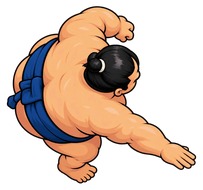
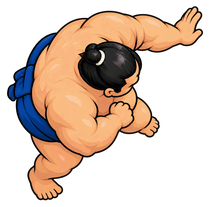
art(action): refresh counter pose candidate
Replace the provisional Counter / hiki-sabaki Visual-Gate source with the
User's lateral-sweep candidate (1265x1244, pixel hash 5429d02f...) and
renormalize it with the established landmark registration (front 178.8,
root (863, 553), body core (853, 111)-(868, 846)); regenerate
counter-gate/red.png and blue.png (210x207) and their metadata. Only the
Counter gate's max_missed_px moves 60 -> 80 for this image's semi-
transparent outline fringe; the recolor rule, idle / Tsuppari art and
Counter gameplay are unchanged.

diff --git a/src/game/presentation/counterGateArt.ts b/src/game/presentation/counterGateArt.ts
@@ -16,18 +16,18 @@ export const COUNTER_GATE_ART: Readonly<Record<ProductWrestlerArtId, ProductWres
     id: 'red',
     textureKey: 'counter-gate-red',
     assetPath: 'assets/action/wrestler/counter-gate/red.png',
-    width: 203,
-    height: 190,
-    pivot: { x: 79, y: 96 },
+    width: 210,
+    height: 207,
+    pivot: { x: 74, y: 115 },
     bodyCoreDiameterPx: COUNTER_GATE_BODY_CORE_DIAMETER_PX,
   },
   blue: {
     id: 'blue',
     textureKey: 'counter-gate-blue',
     assetPath: 'assets/action/wrestler/counter-gate/blue.png',
-    width: 203,
-    height: 190,
-    pivot: { x: 79, y: 94 }, // red pivot (79, 96) reflected: y -> 190 - 96
+    width: 210,
+    height: 207,
+    pivot: { x: 74, y: 92 }, // red pivot (74, 115) reflected: y -> 207 - 115
     bodyCoreDiameterPx: COUNTER_GATE_BODY_CORE_DIAMETER_PX,
   },
 }

diff --git a/src/game/presentation/counterGateArt.test.ts b/src/game/presentation/counterGateArt.test.ts
@@ -47,7 +47,7 @@ describe('Counter art Visual Gate (ACTION-08A)', () => {
 
   it('explicit pivot / body core; blue = red reflected across the local X axis', () => {
     const { red, blue } = COUNTER_GATE_ART
-    expect([red.width, red.height, red.pivot]).toEqual([203, 190, { x: 79, y: 96 }])
+    expect([red.width, red.height, red.pivot]).toEqual([210, 207, { x: 74, y: 115 }])
     expect([blue.width, blue.height, blue.pivot]).toEqual([red.width, red.height, { x: red.pivot.x, y: red.height - red.pivot.y }])
     for (const art of allCounterGateArts()) {
       const origin = productWrestlerOrigin(art)

diff --git a/tools/wrestler_art/tests/test_export_counter_gate.py b/tools/wrestler_art/tests/test_export_counter_gate.py
@@ -36,7 +36,7 @@ from test_preview_dual_rigid_wrestlers import front_point, sprite_recipe  # noqa
 
 TS_METADATA = aw.REPO_ROOT / "src" / "game" / "presentation" / "counterGateArt.ts"
 RECIPE = ec.load_recipe(ec.DEFAULT_RECIPE)
[2 lines of base64/hex data omitted]
 FRONT_DEG = 165.0
 
 
@@ -86,6 +86,12 @@ class RecipeTests(unittest.TestCase):
     def test_accepted_source_identity(self) -> None:
         self.assertEqual(RECIPE["master"]["pixel_sha256"], ACCEPTED_SOURCE_PIXELS)
         self.assertEqual(RECIPE["master"]["file"], "candidate_red_counter.png")
+        self.assertEqual(RECIPE["master"]["size"], [1265, 1244])
+
+    def test_counter_only_missed_allowance(self) -> None:
+        # ACTION-08A1: image-specific 60 -> 80 for this gate only; idle / Tsuppari limits stay 60
+        self.assertEqual(RECIPE["mask_limits"]["max_missed_px"], 80)
+        self.assertEqual(et.load_recipe(et.DEFAULT_RECIPE)["mask_limits"]["max_missed_px"], 60)
 
     def test_recolor_rule_is_owned_by_the_idle_runtime_recipe(self) -> None:
         self.assertEqual(RECIPE["recolor"], ex.load_recipe(ex.DEFAULT_RECIPE)["derived"]["recolor"])
@@ -259,7 +265,7 @@ class CommittedGateTests(unittest.TestCase):
         source = aw.mirror_part(red)
         rule = RECIPE["recolor"]
         self.assertEqual(et.mask_report(source.image, im.mawashi_mask(source.image, rule), rule),
-                         {"mask_px": 2085, "missed_band_px": 14, "fringe_px": 74})
+                         {"mask_px": 1724, "missed_band_px": 70, "fringe_px": 75})
 
     def test_accepted_idle_and_tsuppari_textures_unchanged(self) -> None:
         for key, expected in (("red", ACCEPTED_RED_PIXELS), ("blue", ACCEPTED_BLUE_PIXELS)):

diff --git a/docs/agent_handoff/CURRENT_COMPLETION_REPORT.md b/docs/agent_handoff/CURRENT_COMPLETION_REPORT.md
@@ -1,180 +1,159 @@
-Task-ID: ACTION-08A-COUNTER-ART-VISUAL-GATE
+Task-ID: ACTION-08A1-COUNTER-ART-CANDIDATE-REFRESH
 Result: PASS WITH KNOWN UNTESTED ITEMS
 Branch: develop
-Source-Baseline: 85bdc89205189e056af56506084aacaacdca6d5c
-Agent-Start-Head: a015e558235a48593507aad16741a2d6d3e67246
+Source-Baseline: bc95f7117dbadf57cceee9d2a0b2a67e6fd10b56
+Agent-Start-Head: 395136266c490523605b7f1d12cea6eb881fb475
 Implementation-Commit: THIS_COMMIT
 Push-Target: origin/develop
 Push-Verification: RESOLVE_FROM_GITHUB_AFTER_THIS_COMMIT
 
 # Result
 
-PASS WITH KNOWN UNTESTED ITEMS（Technical PASS、Browser Smoke 20 / 20 PASS。Counterの画像が今の候補として十分かは、User Visual Gateで判断する）。
+PASS WITH KNOWN UNTESTED ITEMS（Technical PASS、Browser Smoke 20 / 20 PASS。新しいCounter / 引き・捌きの候補が十分かは、User Visual Gateで判断する）。
 
-- Userが用意した引き・捌き（ArrowDown / Counter）の画像を、**暫定のVisual Gate** としてruntimeに組み込んだ
-  - red: 描いた1枚を正規化したもの
-  - blue: そのredをofflineで反射し、まわしを塗り替えたもの
-- 表示するのは、既存の `WrestlerVisualState.pose === 'counter'` のあいだだけ。独自のtimerは持たない
-- Counterのgameplay、idle、Product Tsuppari artは変えていない
-- Productの恒久の契約（`WRESTLER_PRODUCT_ART_SPEC.md` のAccepted）には入れていない
+- 暫定のCounter Visual-Gateの画像を、Userの新しい候補（腕を横へ払う構図）に差し替えた
+- 07Cから続くlandmarkの方法で正規化し直し、`counter-gate/red.png` / `blue.png` を作り直した
+- Taskが認めた範囲で、Counter gateのrecipeの `max_missed_px` だけを60 → 80にした
+- 次のものは変えていない:
+  - 塗り替えの規則、idle / Tsuppariのmaskの上限
+  - presentationの経路（`pose === 'counter'` → `selectWrestlerPoseArt`）
+  - gameplay、idle / Product Tsuppari art
 
 # Preflight
 
-- working tree clean、branch `develop`、fetch後 `HEAD...origin/develop` = `0 2`
-- Remote CURRENT_TASK: Task-IDは一致、Status READY、Target-Branch develop、Source-Baseline `85bdc89`（`origin/develop` のancestor）、Handoff-Mode GITHUB
-- `85bdc89..origin/develop` で変わったのは `docs/agent_handoff/CURRENT_TASK.md` だけ → `merge --ff-only` → `a015e55`
-- source: `tools/wrestler_art/input.local/candidate_red_counter.png`（commitしない）
+- working tree clean、branch `develop`、fetch後 `HEAD...origin/develop` = `0 1`
+- Remote CURRENT_TASK: Task-IDは一致、Status READY、Target-Branch develop、Source-Baseline `bc95f71`（`origin/develop` のancestor）、Handoff-Mode GITHUB
+- `bc95f71..origin/develop` で変わったのは `docs/agent_handoff/CURRENT_TASK.md` だけ → `merge --ff-only` → `3951362`
+- この開始指示の前に、2回STOPしている。どちらもrepositoryには何も書いていない
+  1. 1回目: 当時の指定画像（`11d5157b…`）は、まわしが2つに分かれていて、mask（missed 175）が上限を超えたため、BLOCKEDとして報告した
+  2. 2回目: Userが画像を差し替えたが、当時のTaskの指定hashと合わなかったため止めた。そのとき、scratchpadで事前診断だけをした
+  - 今回のTaskは、その差し替えた画像と、事前診断で分かったmaskの上限を反映している
+
+## Source（`tools/wrestler_art/input.local/candidate_red_counter.png`、commitしない）
 
 | 項目 | 期待値 | 実測 |
 |---|---|---|
-| size / mode | 1254×1254 RGBA | 1254×1254 RGBA |
[2 lines of base64/hex data omitted]
+| size / mode | 1265×1244 RGBA | 1265×1244 RGBA |
[2 lines of base64/hex data omitted]
+| 08Aの旧画像 `eb0f2e60…e040` と違う | 違う | 違う |
+| 08A1で不採用の画像 `11d5157b…9e85` と違う | 違う | 違う |
 
-# Normalization（`counter_gate_recipe.json`）
+# Normalization（新しい候補。旧値は流用していない）
 
-測定は、Product Tsuppariと同じlandmarkの合わせ方（`measure_tsuppari_pose.measure_landmarks` / `normalization`）で、この候補に1回だけ実行した。
+- 方法は08Aと同じ: `measure_tsuppari_pose.measure_landmarks` / `normalization` を、この候補に1回実行した
+- 髪とまわしの重心を、1/2 BOXのscaleで測り、受理済みのidle red masterに合わせる
+- 正規化のalgorithmは変えていない
 
-- 髪の塊とまわしの重心を、1/2 BOXのscaleで測り、受理済みのidle red masterに合わせる
-- 測定の仕組みを汎用化するrefactorはしていない
-- 記録値は丸めている（front 0.1°、各点1 px）
+| 項目 | 08A（旧） | 08A1（新） |
+|---|---|---|
+| source size | 1254×1254 | **1265×1244** |
+| hair centroid / px | (543.7, 494.4) / 63152 | (659.3, 405.8) / 73976 |
+| mawashi centroid / px | (992.6, 597.3) / 70984 | (1118.3, 582.2) / 57052 |
+| 回転差 / scale s | +10.004° / 1.1712 | **+18.115° / 1.163** |
+| `source_front_deg` | 170.7 | **178.8**（実測178.815） |
+| `root_source_px` | (750, 608) | **(863, 553)**（実測862.66, 552.68） |
+| `body_core_source_px` | (678, 170)–(798, 899) | **(853, 111)–(868, 846)**（front軸との直交のずれは約0.03°） |
 
-| 項目 | 値 |
-|---|---|
-| hair centroid / px | (543.7, 494.4) / 63152 |
-| mawashi centroid / px | (992.6, 597.3) / 70984 |
-| 回転差 / scale s | +10.004° / 1.1712 |
-| `source_front_deg` | **170.7** |
-| `root_source_px` | **(750, 608)** |
-| `body_core_source_px` | **(678, 170)–(798, 899)**（front軸との直交のずれは0.05°） |
+- 頭が体より大きく描かれているため、2つの面積比が食い違う（√比で、髪1.317、まわし1.009）
+  - 既存の方法どおり、sは2つの平均にした（`measurement_evidence.note` に記録した）
+  - 体がidleよりやや小さく見える可能性があり、User Visual Gateで確認してほしい点になる
+- clipはない
+- idleの輪郭との重ね合わせ（scratchpadの `counter_alignment.png`）で確かめた:
+  - 頭と胴体はidleとほぼ同じ位置に重なる
+  - 腕は前方へまっすぐではなく、斜め横へ払う向き
+  - 反対の腕は胴体へ引き寄せている
+- 手で調整したoffsetは無い
 
-- この画像の胴体は、idleより約10°回り、約17%大きく描かれている
-  - 髪とまわしの面積比のずれは、Tsuppariのposeより大きい（√比で、髪1.217、まわし1.126）
-  - そのため、sは2つの平均にした（既存の方法のまま。evidenceのnoteに記録した）
-- それでも、正規化はclipせずに通った
-- 向きと大きさが合っていることは、idleの輪郭との重ね合わせで確認した（下記）
-- 適当なoffsetを手で調整したりはしていない
+# Runtime（Visual-Gate asset。pathは変えていない）
 
-# Runtime（Visual-Gate asset）
+| path | size | pivot | body core | 旧pixel SHA-256（08A） | 新pixel SHA-256 | 新file SHA-256 |
+|---|---|---|---|---|---|---|
[2 lines of base64/hex data omitted]
 
-| path | size | pivot | body core | pixel SHA-256 | file SHA-256 |
-|---|---|---|---|---|---|
[2 lines of base64/hex data omitted]
-
-- runtimeは通常のPNGだけを使う（runtimeでの反転や塗り替えはしない）
-- 恒久の `counter/` は作っていない
+- runtimeのtextureは、この2枚だけ
+- `src/game/presentation/counterGateArt.ts` のsize / pivotを更新した
 
 # Recolor / Mask
 
-ruleの持ち主は `runtime_wrestler_recipe.json` で、tsuppari / counterのrecipeには複製していない。
+- 塗り替えのalgorithmと共通の規則（`runtime_wrestler_recipe.json`）は変えていない
+- idle / Tsuppariのmaskの上限（60）も変えていない（testで確かめている）
+- **Counter gateだけの許容**: `counter_gate_recipe.json` の `mask_limits.max_missed_px` を60 → 80にした（Taskが明記した許容。image-specificで、Product全体の基準ではない）
+- 80を超えれば、引き続きfail closedで止まる
 
-| source | mask px | missed（上限60） | fringe（上限120） |
-|---|---|---|---|
-| 正規化したred Counterを反射（→ blue） | 2085 | 14 | 74 |
+| 最終の値（実際に正規化してexportした後） | 値 |
+|---|---|
+| mask px | 1724 |
+| missed band px | **70**（上限80）。そのうち69 pxはalpha < 128の半透明な輪郭の縁 |
+| fringe px | 75（上限120） |
 
-- 目視（maskのsheet）で、maskはまわしの帯だけにかかっていた。skin、hair、腕への混入はない
-- 次のことはtestで確かめた:
-  - alphaが変わらない
-  - mask外の画素が変わらない
-  - mask内は実際に色が変わる
-- 確認用のsheet（scratchpad、commitしない）:
-  - `counter_alignment.png`: 体と頭はidleの輪郭とほぼ重なる。腕は前方へ伸びる
-  - `counter_mask.png`
-  - `counter_rotations.png`
+- 事前診断（scratchpad）の値と完全に一致した
+- まわしは、つながった1つの帯になっている（08A1で最初に不採用だった画像のような、前側の別の塊は無い）
+- `counter_mask.png` を目視した。skin、hair、腕への混入は無く、blueに目立つ赤の残りも無い
 
 # Presentation Integration
 
-- `src/game/presentation/counterGateArt.ts`（新規。Phaser非依存、Simulation非依存）
-  - `COUNTER_GATE_ART.red` / `.blue`: texture key（`counter-gate-red` / `-blue`）、path、寸法、pivot、body-coreの直径
-  - `allCounterGateArts()`: preload用
-  - `selectWrestlerPoseArt(idle, state)`
-    - `state.pose === 'counter'` → Counterの候補
-    - それ以外 → 既存のProductの選択 `selectWrestlerArt`（Tsuppariのpose、またはidle）にそのまま渡す
-- `src/game/scenes/WrestlerView.ts`: preloadにCounterの2枚を追加し、選択を `selectWrestlerPoseArt` にした。pivot / scale / 位置 / 回転の規則は変えていない
-- 経路: `BoutSimulation / Snapshot → resolveWrestlerVisualState（pose = counter）→ selectWrestlerPoseArt → WrestlerView`
-- Simulationに状態は足していない。Phaserでキー入力から推測もしない
+08Aの経路のままで、変えていない:
 
-# Implementation Evidence
-
-| Design Requirement | Implemented As | Verified By |
-|---|---|---|
-| sourceのpath / hash | `counter_gate_recipe.json` の `master`（file、pixel SHA-256）。`aw.load_source` が確かめ、合わなければ止まる | `test_accepted_source_identity`、`test_missing_or_changed_source_fails_closed`、実測hashの一致 |
-| 正規化 / pivot / body-core | idleと同じ03Aの正規化（`et.normalize`）。front 170.7、root、body-coreを明示し、2R・/4 | `test_red_is_the_normalized_pose_and_blue_its_reflected_recolor`（body core 2R）、`test_committed_textures_match_a_red_only_fresh_export`、alignmentのsheet |
-| red → blueの導出 | local Y反射 + idle recipeのまわしの塗り替え（1か所が持つ） | `test_only_one_local_y_reflection`、`test_recolor_rule_is_owned_by_the_idle_runtime_recipe`、alpha / mask外のtest、`test_real_mask_covers_the_mawashi` |
-| 暫定のruntime path | `public/assets/action/wrestler/counter-gate/red.png` / `blue.png`（ちょうど2枚） | `test_exactly_two_files_from_the_one_red_pose`、TSのtest、smokeのtexture読み込み |
-| metadataとexportの一致 | `counterGateArt.ts` | `test_typescript_metadata_matches_the_export`、TSの `explicit pivot / body core` |
-| 決定的 / `--check` | atomicな書き込み。`--check` は何も書かない。古い・無いassetを検出する | `test_deterministic_export`、`test_check_writes_nothing_and_detects_stale_or_missing`、実際の再実行でbyteが同じ |
-| Counter状態の表示 | `selectWrestlerPoseArt`: pose = counterのときだけ | TSのtest（counterの全tickで表示、window − 1 tickのあいだ保持、終わればidle）、smoke（blue / redの全counter frame） |
-| idle / Tsuppariを保つ | idle、Tsuppariの4枚には触れない | `test_accepted_idle_and_tsuppari_textures_unchanged`、`export_runtime_wrestlers.py --check`、`export_tsuppari.py --check`、TSのTsuppari選択test、smoke |
-| gameplayは不変 | `src/game/sumo`、`src/game/input` は差分0行 | `git diff 85bdc89 -- src/game/sumo src/game/input` = 0行、Counter / Tsuppari / Pushのtestは全PASS |
+- 経路: `BoutSimulation / Snapshot → WrestlerVisualState.pose === 'counter' → selectWrestlerPoseArt() → counter-gate texture → WrestlerView`
+- 状態もtimerも足していない。キー入力から推測もしない
+- 変えたのは、metadataの数値（size / pivot）だけ
 
 # Verification
 
 | 項目 | 結果 |
 |---|---|
-| `test_export_counter_gate.py`（focused） | 15 tests OK |
-| wrestler-art全suite | 166 tests OK |
-| presentationのtest（`counterGateArt.test.ts` 6件を含む） | 51 tests PASS |
-| `pnpm test` | 23 files / 358 tests PASS |
+| `test_export_counter_gate.py`（focused） | 16 tests OK（Counterだけ80、idle / Tsuppariは60のtestを追加。sourceのhash / size、maskの期待値を更新） |
+| wrestler-art全suite | 167 tests OK |
+| presentationのtest / `pnpm test` | 23 files / 358 tests PASS |
 | `pnpm build` / `tsc --noEmit` | PASS（以前からあるchunk size警告だけ） |
 | `git diff --check` | OK |
-| `export_counter_gate.py --check` / 再実行 | exit 0。byteが同じ |
-| `export_runtime_wrestlers.py --check`（idle） | exit 0 |
-| `export_tsuppari.py --check`（Product Tsuppari） | exit 0 |
-| `src/game/sumo/` / `src/game/input/` | `85bdc89` から差分0行 |
+| Counterのexport: 決定的な再実行 / `--check` | 再実行でbyteが同じ（file SHA-256は上の表のとおり）/ exit 0 |
+| `export_runtime_wrestlers.py --check`（idle） / `export_tsuppari.py --check`（Product Tsuppari） | どちらもexit 0（idle / Tsuppariは不変） |
+| `src/game/sumo/` / `src/game/input/` | `bc95f71` から差分0行 |
 
 # Browser Smoke
 
-`pnpm dev`（port 5199）+ headless Chrome（CDP）。結果: **20 / 20 PASS**
+`pnpm dev`（port 5199）+ headless Chrome（CDP）。08Aのsmokeを、新しいsize / pivotで実行した。
 
-CPU redのCounterを観測する方法:
-
-- dummyにはCounterのmodeが無い。そこでsmoke script側でだけ、ブラウザ内の `dummy.nextIntent` を一時的に包んだ
-- playerのPushを見たら、1回だけ `counterPressed` を返す。終わったら元に戻した
-- ソースは変えていない
+- CPU redのCounterは、smoke scriptの中だけで `dummy.nextIntent` を一時的に包んで出した。ソースは変えていない
+- 結果: **20 / 20 PASS**
 
 | 確認 | 結果 |
 |---|---|
-| Counterの2枚（203×190）が読み込まれる。Tsuppariの4枚とidleの2枚のsizeは変わらない | PASS |
-| pre-bout → Enterで開始 | PASS |
-| ArrowDown: blueが、counterの全frame（11 frame）で `counter-gate-blue` を表示 | PASS |
-| blue: origin = pivot、位置 = Snapshot center、rotation = facing、scale 1.0（飛びは無い）。counter以外の状態では使わない | PASS |
-| blueのCounterが空振り → 既存どおりFail / Kuzushiになり、idleのspriteに戻る | PASS |
-| red CPUのCounter: counterの全frameで `counter-gate-red` を表示。pivot / 配置も正しい | PASS |
-| 捕まえた結果は既存のまま: tierは `best`、CounterTransitionは `active`。その後のredは既存のvisual（idle / move） | PASS |
-| Pushした側（blue）にはCounterのtextureが出ない | PASS |
-| Tsuppariの左右は、引き続き `product-tsuppari-blue-left / -right` | PASS |
-| Push / Counter / Grip、idle / moveのsprite、R restart | PASS |
+| Counterの2枚（210×207）が読み込まれる。Tsuppariの4枚とidleの2枚のsizeは変わらない | PASS |
+| pre-bout → Enter | PASS |
+| ArrowDown: blueが、counterの全frame（13 frame）で新しい `counter-gate-blue` を表示 | PASS |
+| origin = pivot、位置 = Snapshot center、rotation = facing、scale 1.0（idle → Counter → 次の状態で、飛びは無い） | PASS |
+| Counter以外の状態では表示しない | PASS |
+| Counterの空振り → 既存どおりFail / Kuzushi → idleのsprite | PASS |
+| red CPUのCounter（`counter-gate-red`）。PushをBestで捕まえ、既存のCounterTransition（`active`）になる | PASS |
+| Tsuppariの左右はProductのまま。Push / Counter / Grip、移動、R restart | PASS |
 | console error、失敗したrequestが無い | PASS |
 
-screenshot `09_blue_counter_pose.png` / `10_red_counter_pose.png` で、blue / redのCounter poseが実際に描かれていることを確かめた（scratchpad）。
+screenshot `09_blue_counter_pose.png` / `10_red_counter_pose.png`（scratchpad）で、新しいposeが描かれていることを確かめた。
 
 # Changed Files
 
-- 追加
-  - `tools/wrestler_art/counter_gate_recipe.json`
-  - `tools/wrestler_art/export_counter_gate.py`
-  - `tools/wrestler_art/tests/test_export_counter_gate.py`
-  - `public/assets/action/wrestler/counter-gate/red.png` / `blue.png`
-  - `src/game/presentation/counterGateArt.ts` / `counterGateArt.test.ts`
-- 変更
-  - `src/game/scenes/WrestlerView.ts`
-  - `tools/wrestler_art/README.md`（暫定Gateの節）
-  - `docs/ARCHITECTURE.md`（暫定のCounter Visual Gateを1行）
-  - `docs/agent_handoff/CURRENT_COMPLETION_REPORT.md`
+- `tools/wrestler_art/counter_gate_recipe.json`（sourceの同一性、測定値、evidence、`max_missed_px` 80）
+- `public/assets/action/wrestler/counter-gate/red.png` / `blue.png`
+- `src/game/presentation/counterGateArt.ts`（size / pivot）
+- `src/game/presentation/counterGateArt.test.ts`（期待するgeometry）
+- `tools/wrestler_art/tests/test_export_counter_gate.py`（source、maskの期待値、Counterだけの許容のtest）
+- `tools/wrestler_art/README.md`（Counter gateの節の値）
+- `docs/agent_handoff/CURRENT_COMPLETION_REPORT.md`
 
 ## 変更していないもの
 
-- `src/game/sumo/`（Counter window、Success / Best / Fail、CounterTransition、Kuzushi、Push、Tsuppari）
-- `src/game/input/`（ArrowDownのbinding、入力の優先順位）
-- `src/game/presentation/wrestlerVisualState.ts`、`productTsuppariArt.ts`、`productWrestlerArt.ts`
-- idle / Tsuppariのasset、recipe、exporter
+- `src/game/sumo/`、`src/game/input/`、`wrestlerVisualState.ts`、`WrestlerView.ts`、`BoutScene.ts`
+- `runtime_wrestler_recipe.json`、`tsuppari_recipe.json`
+- idle / Tsuppariのasset
 - `WRESTLER_PRODUCT_ART_SPEC.md`、`PROJECT_HANDOFF.md`、`CURRENT_TASK.md`
 
 # Design Deviations
 
-Design Deviations: NONE
+Design Deviations: NONE（`max_missed_px` 60 → 80は、Taskが明記した許容）
 
 # Unexpected Scope
 
@@ -183,27 +162,26 @@ NONE
 # Known Untested Items
 
 - 実機でのUser Visual Gate
-- headlessのsmokeが確かめたのは、textureの選択・配置・表示の長さが、gameplayの状態に従っていることまで
 
 # User Visual Gate: REQUIRED
 
 確認の手順:
 
-1. `pnpm dev` → Enter → ArrowDownで、playerのCounter（blue）を出す
-2. redのCounterを見るには、CPUに押させて（dummy `2`）、playerがArrowDownで返す場面や、そのSuccess / Bestの後を見る。CPUはdummyではCounterを押さない
+1. `pnpm dev` → Enter → ArrowDownで、blueのCounterを見る
+2. redのCounterは、CPUのPushをArrowDownで返す場面で見る。CPUはdummyではCounterを押さない
 
 判断してほしい点:
 
-- idle → Counter poseへの切り替え（頭と体の位置、見た目の大きさ）
-- 腕の置き方と読みやすさ
-- redの版と、derivedのblueの版
-- ArrowDownが引き・捌きに見えるか
-- 静止poseの長さ（Counter window = 12 tick）が読み取れるか
-- Success / Bestの遷移が、poseの後でも分かりやすいか
+- 引き・捌き（横へ払う）に見えるか。Tsuppariと見分けられるか
+- 頭と体の位置
+- 見た目の大きさ（頭が大きく描かれているため、体がやや小さく見える可能性がある）
+- red / blueの両方
+- idle → Counterへの切り替え
+- 約12 tickの静止poseが読み取れるか
 
-Technical PASSは、この画像を恒久に受理したという意味ではない。
+Technical PASSは、恒久の受理ではない。
 
 # Git Delivery
 
-- stageするのはTask-owned fileだけ。commit `art(action): add counter pose visual gate` → fetch → fast-forwardできることを確認 → push `origin/develop` → remote SHAを確認 → working treeがcleanか確認
+- stageするのはTask-owned fileだけ。commit `art(action): refresh counter pose candidate` → fetch → fast-forwardできることを確認 → push `origin/develop` → remote SHAを確認 → working treeがcleanか確認
 - `input.local/`、`main`、`PROJECT_HANDOFF.md`、`CURRENT_TASK.md` は変更しない

diff --git a/tools/wrestler_art/README.md b/tools/wrestler_art/README.md
@@ -355,11 +355,12 @@ PY tools/wrestler_art/export_counter_gate.py --check    # verify the committed r
 
 - Input: `input.local/candidate_red_counter.png` only (never committed; identity = decoded RGBA pixel SHA-256
   in `counter_gate_recipe.json`).
-- red = the pose normalized like the idle red (front 170.7, root (750, 608), body core (678, 170)-(798, 899),
-  measured once with the Product Tsuppari landmark registration; `measurement_evidence` records it).
+- red = the pose normalized like the idle red (ACTION-08A1 lateral-sweep candidate, 1265x1244 source: front
+  178.8, root (863, 553), body core (853, 111)-(868, 846), measured once with the Product Tsuppari landmark
+  registration; `measurement_evidence` records it).
 - blue = red reflected across the local X axis + the accepted mawashi recolor of `runtime_wrestler_recipe.json`
-  (single owner), validated against `mask_limits` (fail closed). Counter has no hand, so there is one pose per
-  colour.
+  (single owner), validated against `mask_limits` (fail closed; `max_missed_px` is 80 for this candidate only,
+  its missed pixels being semi-transparent outline fringe). Counter has no hand, so there is one pose per colour.
 - Runtime: `src/game/presentation/counterGateArt.ts` mirrors the two sizes / pivots (checked by
   `tests/test_export_counter_gate.py`); the pose is shown exactly while the visual pose is `counter`.
 
